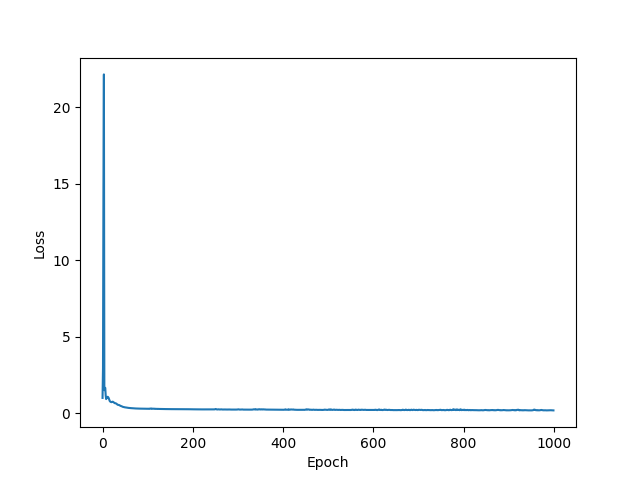
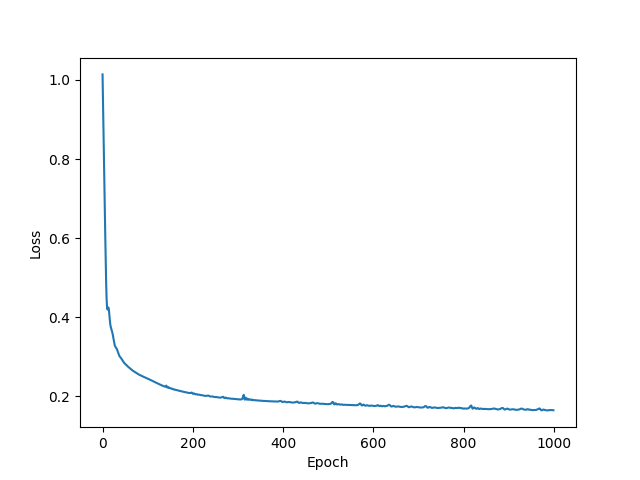
lowered learning_rate from 0.15 to 0.005, reducing MAPE from 21.5% to 19.1%

diff --git a/main.py b/main.py
@@ -73,7 +73,8 @@ y_test = torch.FloatTensor(y_test).reshape(-1, 1)
 # Initialize model and training parameters
 model = Model()
 criterion = nn.MSELoss()
-optimizer = optim.Adam(model.parameters(), lr=0.15)
+learning_rate = 0.005
+optimizer = optim.Adam(model.parameters(), lr=learning_rate)
 
 epochs = 1000
 losses = []

diff --git a/README.md b/README.md
@@ -49,7 +49,7 @@ To predict:
 - Hidden layer 1: 64 neurons with ReLU activation
 - Hidden layer 2: 32 neurons with ReLU activation
 - Output layer: 1 neuron (Regression)
-- Optimization: Adam optimizer with learning rate 0.01
+- Optimization: Adam optimizer with learning rate 0.005
 - Loss function: Mean Squared Error Loss
 
 ## Results
@@ -57,8 +57,8 @@ To predict:
 The model is trained for 1000 epochs and the training progress can be visualized through a loss plot that is automatically generated and saved as [loss_plot.png](loss_plot.png).
 The model achieved:
 
-- RMSE: $52,800
-- MAPE: 21.5%
+- RMSE: $50,500
+- MAPE: 19.1%
 
 ## License
 
